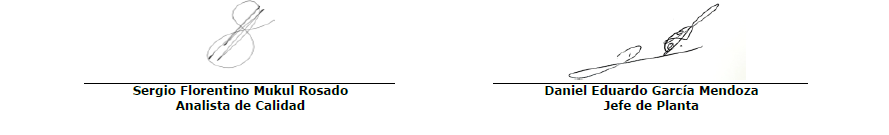
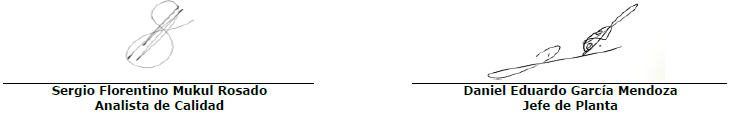
Reporte Dinamico - Responsive

diff --git a/src/styles/report.css b/src/styles/report.css
@@ -311,17 +311,18 @@ tbody tr:nth-child(even) {
 
 .firma-wrapper {
   display: flex;
-  justify-content: flex-start;
+  justify-content: center;
   align-items: center;
   margin-bottom: 10px;
 }
 
 .firma-img {
-  width: 320px;
+  width: 670px;
   max-width: 100%;
   height: auto;
   object-fit: contain;
   display: block;
+  margin: 0 auto;
 }
 
 .firma-nota {
@@ -415,6 +416,8 @@ hr {
   }
 
   .firma-img {
-    max-width: 240px;
+    min-width: 300px;
+    width: 100%;
+    height: auto;
   }
 }
